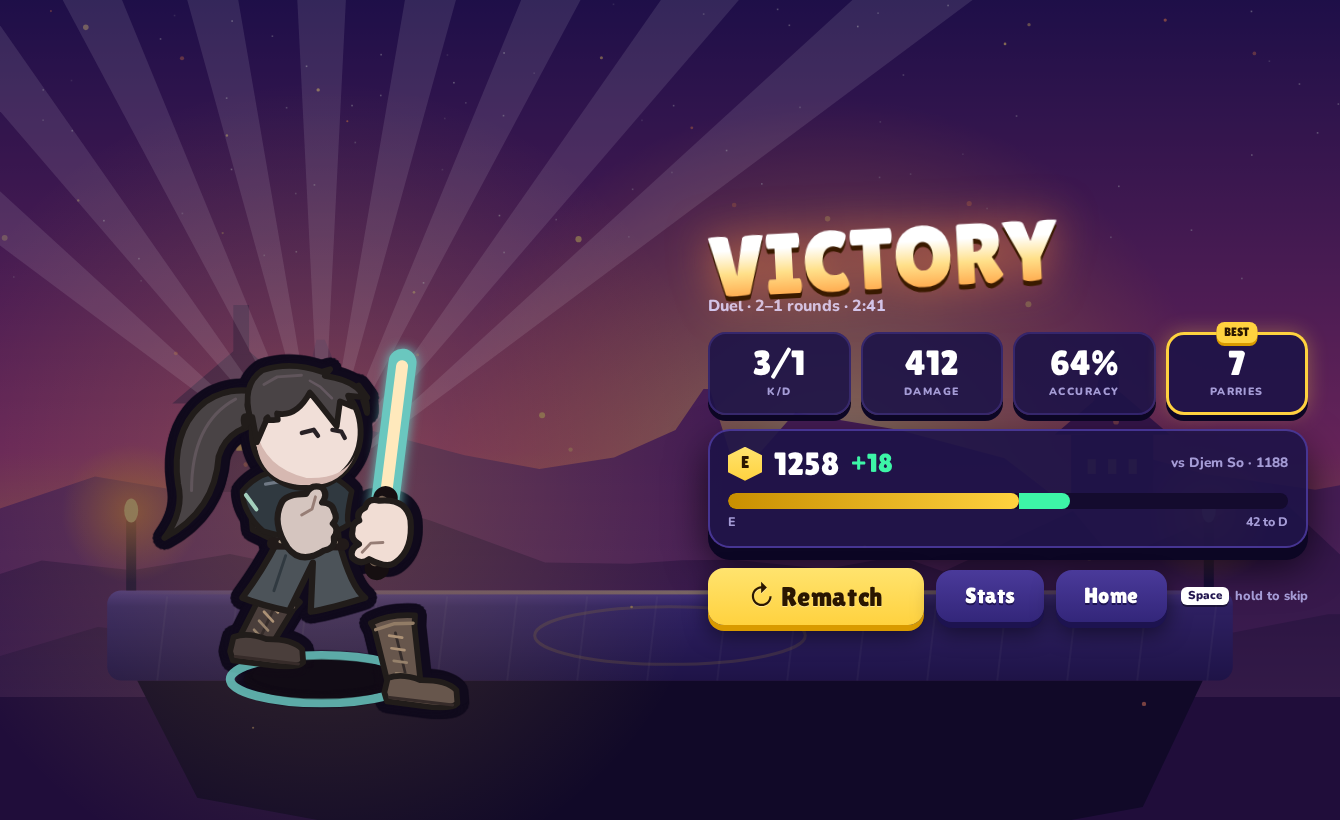
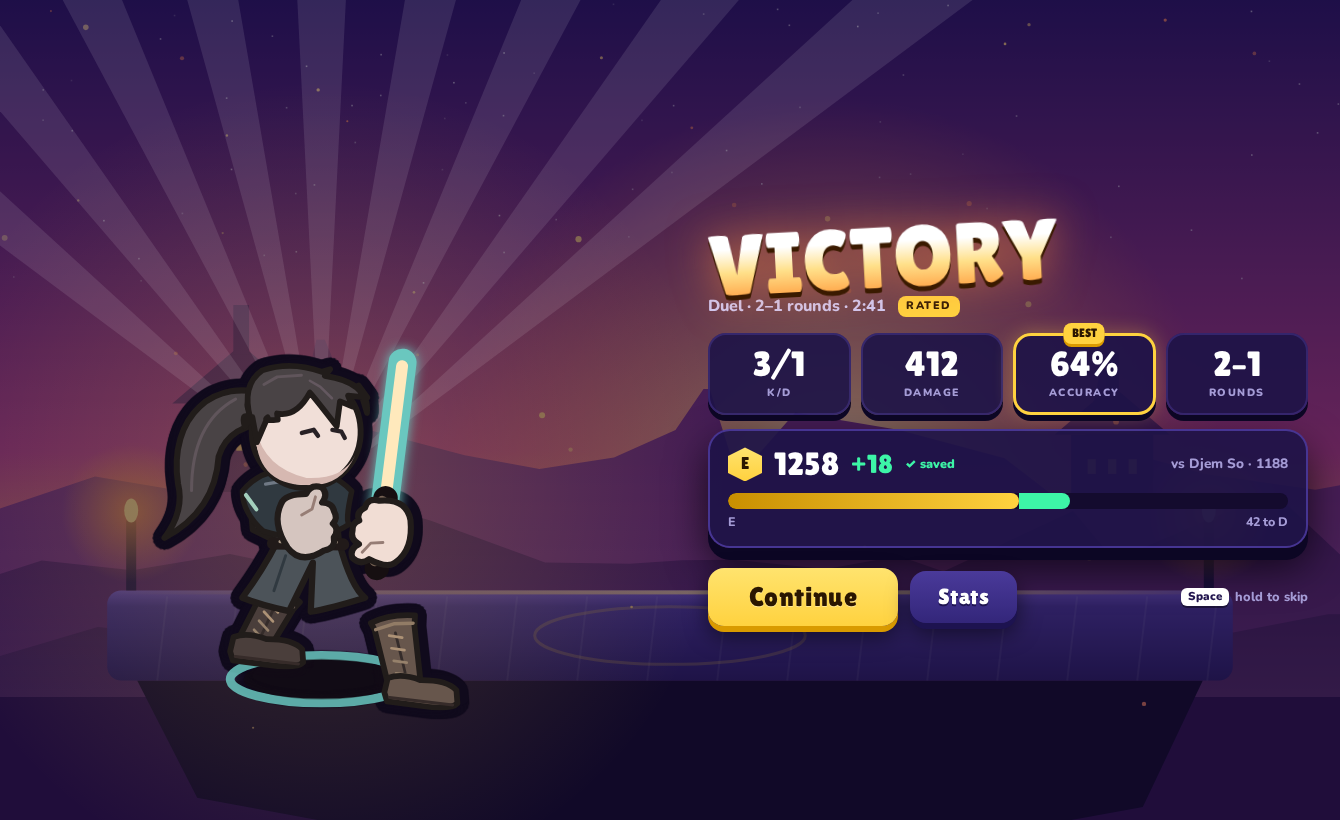
Rework scoreboard and results mocks for review
Teal and coral teams. Scoreboard on hold B, not Tab, with a visible
Stats button on touch, and only recorded columns (K, D, damage, Elo).
Results show Rated or Unrated, an Elo change only when it was saved,
and Continue instead of Rematch.

diff --git a/docs/v5-look/screens.html b/docs/v5-look/screens.html
@@ -224,6 +224,21 @@ table.sb{width:100%;border-collapse:separate;border-spacing:0 4px;font-size:.92r
   .hrow{grid-template-columns:28px 1fr 48px 48px;padding:6px 8px;font-size:.82rem}
 }
 .phoneopts,.phonego{display:none}
+
+/* review pass: teal/coral teams, no Tab, rated vs unrated */
+#board,#squadhud,#results{--blue:#6ac7bf;--red:#ed886b}
+.rated,.unr{display:inline-block;font:900 .68rem/1 var(--ui);letter-spacing:.14em;padding:5px 8px;border-radius:8px;margin-left:8px;vertical-align:2px}
+.rated{background:var(--gold);color:#2a1600}
+.unr{background:#140b2e;color:#cfc8f5;box-shadow:inset 0 0 0 2px #a59cd6}
+#results .unr,#results .r-unr{display:none}
+#results.unrated .unr{display:inline-block}#results.unrated .r-unr{display:block}
+#results.unrated .rated,#results.unrated .r-rated{display:none}
+.savedtag{font:900 .78rem/1 var(--ui);color:var(--mint)}
+.bfoot{margin-top:8px;font-size:.76rem}.bhead .sc{white-space:nowrap}@media (max-width:600px){.bhead{flex-wrap:wrap;gap:8px}.bhead .muted{font-size:.8rem}}
+.statsbtn{position:absolute;top:84px;left:50%;transform:translateX(-50%);display:flex;align-items:center;gap:6px;border:0;border-radius:12px;padding:7px 10px;background:#0c0624cc;color:#fff;font:400 .95rem/1 var(--display);pointer-events:auto}
+.statsbtn svg{width:18px;height:18px}
+.statsbtn kbd{font:900 .66rem/1 var(--ui);background:#fff;color:#22164f;border-radius:5px;padding:2px 5px}
+@media (max-width:600px){.statsbtn{top:50px}.statsbtn kbd{display:none}#results .rsub .rated,#results .rsub .unr{margin-left:6px}}
 </style>
 <body>
 <div class="stage">
@@ -343,23 +358,25 @@ table.sb{width:100%;border-collapse:separate;border-spacing:0 4px;font-size:.92r
     <div class="obj"><i class="b"><span>A</span></i><i class="n"><span>B</span></i><i class="r"><span>C</span></i></div>
     <div class="side r"><span class="score">4</span><div class="roster"><i></i><i class="ko"></i><i></i><i class="ko"></i><i></i><i class="ko"></i><i></i><i></i><i class="ko"></i><i></i></div></div>
   </div>
+  <button class="statsbtn"><svg viewBox="0 0 24 24" fill="#fff"><path d="M3 20h18v2H3zM5 10h3v8H5zm5-6h3v14h-3zm5 9h3v5h-3z"/></svg><span>Stats</span><kbd>B</kbd></button>
 </section>
 <section id="board" hidden>
   <div class="dim"></div>
   <div class="board glass">
-    <div class="bhead"><div class="sc"><span class="b">7</span> – <span class="r">4</span></div><span class="muted">Control · Medium · 1:42</span><span class="hint" style="margin-left:auto"><kbd>Tab</kbd> hold</span></div>
+    <div class="bhead"><div class="sc"><span class="b">7</span> – <span class="r">4</span></div><span class="muted">Control · Medium · 1:42</span><span class="rated">RATED</span><span class="hint" style="margin-left:auto"><kbd>B</kbd> hold</span></div>
     <table class="sb">
-      <tr><th>FIGHTER</th><th>K</th><th>D</th><th class="hide">A</th><th>DMG</th><th class="hide">CAP</th><th>ELO</th></tr>
-      <tr class="team b"><td colspan="7">Blue</td></tr>
-      <tr class="me"><td><span class="dot b"></span><span class="rk sm">E</span>Makashi</td><td>4</td><td>1</td><td class="hide">2</td><td>612</td><td class="hide">3</td><td>1258</td></tr>
-      <tr><td><span class="dot b"></span><span class="rk sm">D</span>Soresu</td><td>3</td><td>2</td><td class="hide">4</td><td>540</td><td class="hide">1</td><td>1302</td></tr>
-      <tr><td><span class="dot b"></span><span class="rk sm">E</span>Ataru</td><td>2</td><td>2</td><td class="hide">1</td><td>388</td><td class="hide">2</td><td>1190</td></tr>
-      <tr class="ko"><td><span class="dot b"></span><span class="rk sm">F</span>Niman</td><td>0</td><td>3</td><td class="hide">1</td><td>144</td><td class="hide">0</td><td>1032</td></tr>
-      <tr class="team r"><td colspan="7">Pink</td></tr>
-      <tr><td><span class="dot r"></span><span class="rk sm">D</span>Vaapad</td><td>3</td><td>3</td><td class="hide">0</td><td>570</td><td class="hide">1</td><td>1311</td></tr>
-      <tr><td><span class="dot r"></span><span class="rk sm">E</span>Djem So</td><td>2</td><td>2</td><td class="hide">2</td><td>402</td><td class="hide">2</td><td>1188</td></tr>
-      <tr class="ko"><td><span class="dot r"></span><span class="rk sm">F</span>Shii-Cho</td><td>0</td><td>4</td><td class="hide">1</td><td>120</td><td class="hide">0</td><td>1004</td></tr>
+      <tr><th>FIGHTER</th><th>K</th><th>D</th><th>DMG</th><th>ELO</th></tr>
+      <tr class="team b"><td colspan="5">Teal</td></tr>
+      <tr class="me"><td><span class="dot b"></span><span class="rk sm">E</span>Makashi</td><td>4</td><td>1</td><td>612</td><td>1240</td></tr>
+      <tr><td><span class="dot b"></span><span class="rk sm">D</span>Soresu</td><td>3</td><td>2</td><td>540</td><td>1302</td></tr>
+      <tr><td><span class="dot b"></span><span class="rk sm">E</span>Ataru</td><td>2</td><td>2</td><td>388</td><td>1190</td></tr>
+      <tr class="ko"><td><span class="dot b"></span><span class="rk sm">F</span>Niman</td><td>0</td><td>3</td><td>144</td><td>1032</td></tr>
+      <tr class="team r"><td colspan="5">Coral</td></tr>
+      <tr><td><span class="dot r"></span><span class="rk sm">D</span>Vaapad</td><td>3</td><td>3</td><td>570</td><td>1311</td></tr>
+      <tr><td><span class="dot r"></span><span class="rk sm">E</span>Djem So</td><td>2</td><td>2</td><td>402</td><td>1188</td></tr>
+      <tr class="ko"><td><span class="dot r"></span><span class="rk sm">F</span>Shii-Cho</td><td>0</td><td>4</td><td>120</td><td>1004</td></tr>
     </table>
+    <div class="bfoot muted">Elo is each fighter's saved rating before this match.</div>
   </div>
 </section>
 
@@ -370,19 +387,22 @@ table.sb{width:100%;border-collapse:separate;border-spacing:0 4px;font-size:.92r
     <div></div>
     <div>
       <h1 class="win">VICTORY</h1>
-      <div class="rsub">Duel · 2–1 rounds · 2:41</div>
+      <div class="rsub">Duel · 2–1 rounds · 2:41 <span class="rated">RATED</span><span class="unr">UNRATED</span></div>
       <div class="tiles">
         <div class="tile"><b>3/1</b><span>K/D</span></div>
         <div class="tile"><b>412</b><span>DAMAGE</span></div>
-        <div class="tile"><b>64%</b><span>ACCURACY</span></div>
-        <div class="tile best"><b>7</b><span>PARRIES</span></div>
+        <div class="tile best"><b>64%</b><span>ACCURACY</span></div>
+        <div class="tile"><b>2–1</b><span>ROUNDS</span></div>
       </div>
-      <div class="elo glass">
-        <div class="elorow"><span class="rk">E</span><span class="num">1258</span><span class="delta">+18</span><span class="muted" style="margin-left:auto;font-size:.85rem">vs Djem So · 1188</span></div>
+      <div class="elo glass r-rated">
+        <div class="elorow"><span class="rk">E</span><span class="num">1258</span><span class="delta">+18</span><span class="savedtag">✓ saved</span><span class="muted" style="margin-left:auto;font-size:.85rem">vs Djem So · 1188</span></div>
         <div class="ebar" style="--a:52%;--g:9%"><i></i><i></i></div>
         <div class="elofoot"><span>E</span><span>42 to D</span></div>
       </div>
-      <div class="rbtns"><button class="btn gold">↻ Rematch</button><button class="btn ghost">Stats</button><button class="btn ghost">Home</button><span class="hint" style="margin-left:auto"><kbd>Space</kbd> hold to skip</span></div>
+      <div class="elo glass r-unr">
+        <div class="elorow"><span class="rk">E</span><span class="num">1240</span><span class="muted" style="font-size:.95rem">Unrated bout. Elo not changed.</span></div>
+      </div>
+      <div class="rbtns"><button class="btn gold">Continue</button><button class="btn ghost">Stats</button><span class="hint" style="margin-left:auto"><kbd>Space</kbd> hold to skip</span></div>
     </div>
   </div>
 </section>
@@ -492,7 +512,7 @@ if(view==='loadout'){show('loadout');arenaScene(g,W,H,'none');g.fillStyle='#140b
 }
 if(view==='settings'){show('settings');arenaScene(g,W,H,'none');dimBg('#140b2ed8');}
 if(view==='board'){arenaScene(g,W,H,'squad');show('squadhud');show('board');}
-if(view==='results'){show('results');arenaScene(g,W,H,'none');g.fillStyle='#140b2e88';g.fillRect(0,0,W,H);
+if(view==='results'||view==='results-unrated'){show('results');if(view==='results-unrated')document.getElementById('results').classList.add('unrated');arenaScene(g,W,H,'none');g.fillStyle='#140b2e88';g.fillRect(0,0,W,H);
   const s=phone?150:H*.38,x=phone?W*.42:W*.24,gy=phone?300:H*.82;
   glow(g,x,gy-s*.6,s*1.3,'#ffd23f33');
   // light rays
